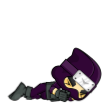
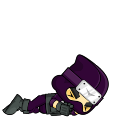
arreglado die fijo y agregado preventdefault para up and down keys

diff --git a/TP4/EntregaFinal/src/app/runner/runner.component.css b/TP4/EntregaFinal/src/app/runner/runner.component.css
@@ -221,10 +221,10 @@
 
 @keyframes obstacle-movement {
     0% {
-        left: 800px;
+        left: 710px;
     }
     100%{
-        left:-300px;
+        left:0px;
     }
 }
 
@@ -245,7 +245,7 @@
     height: 75px;
     position: absolute;
     background-image: url('../../assets/images/games/runner/obstacle/burbuja.png');
-    top: 337px;
+    top: 287px;
     left: 387px;
     z-index: 8;
 }
@@ -255,7 +255,7 @@
     height: 75px;
     position: absolute;
     background-image: url('../../assets/images/games/runner/obstacle/burbuja-die.png');
-    top: 337px;
+    top: 287px;
     left: 387px;
     animation: burbuja 2s steps(7) infinite;
     z-index: 8;

diff --git a/TP4/EntregaFinal/src/app/runner/runner.component.ts b/TP4/EntregaFinal/src/app/runner/runner.component.ts
@@ -55,6 +55,14 @@ export class RunnerComponent implements OnInit {
       this.perdida = this.colision();
     },10)
 
+    var arrow_keys_handler = function(e: { code: any; preventDefault: () => void; }) {
+      switch(e.code){
+          case "ArrowUp": case "ArrowDown": e.preventDefault(); break;
+          default: break; // do not block other keys
+      }
+    };
+    window.addEventListener("keydown", arrow_keys_handler, false);
+
     setInterval(() =>{
       if(this.perdida == false){
         this.generarFuego();
